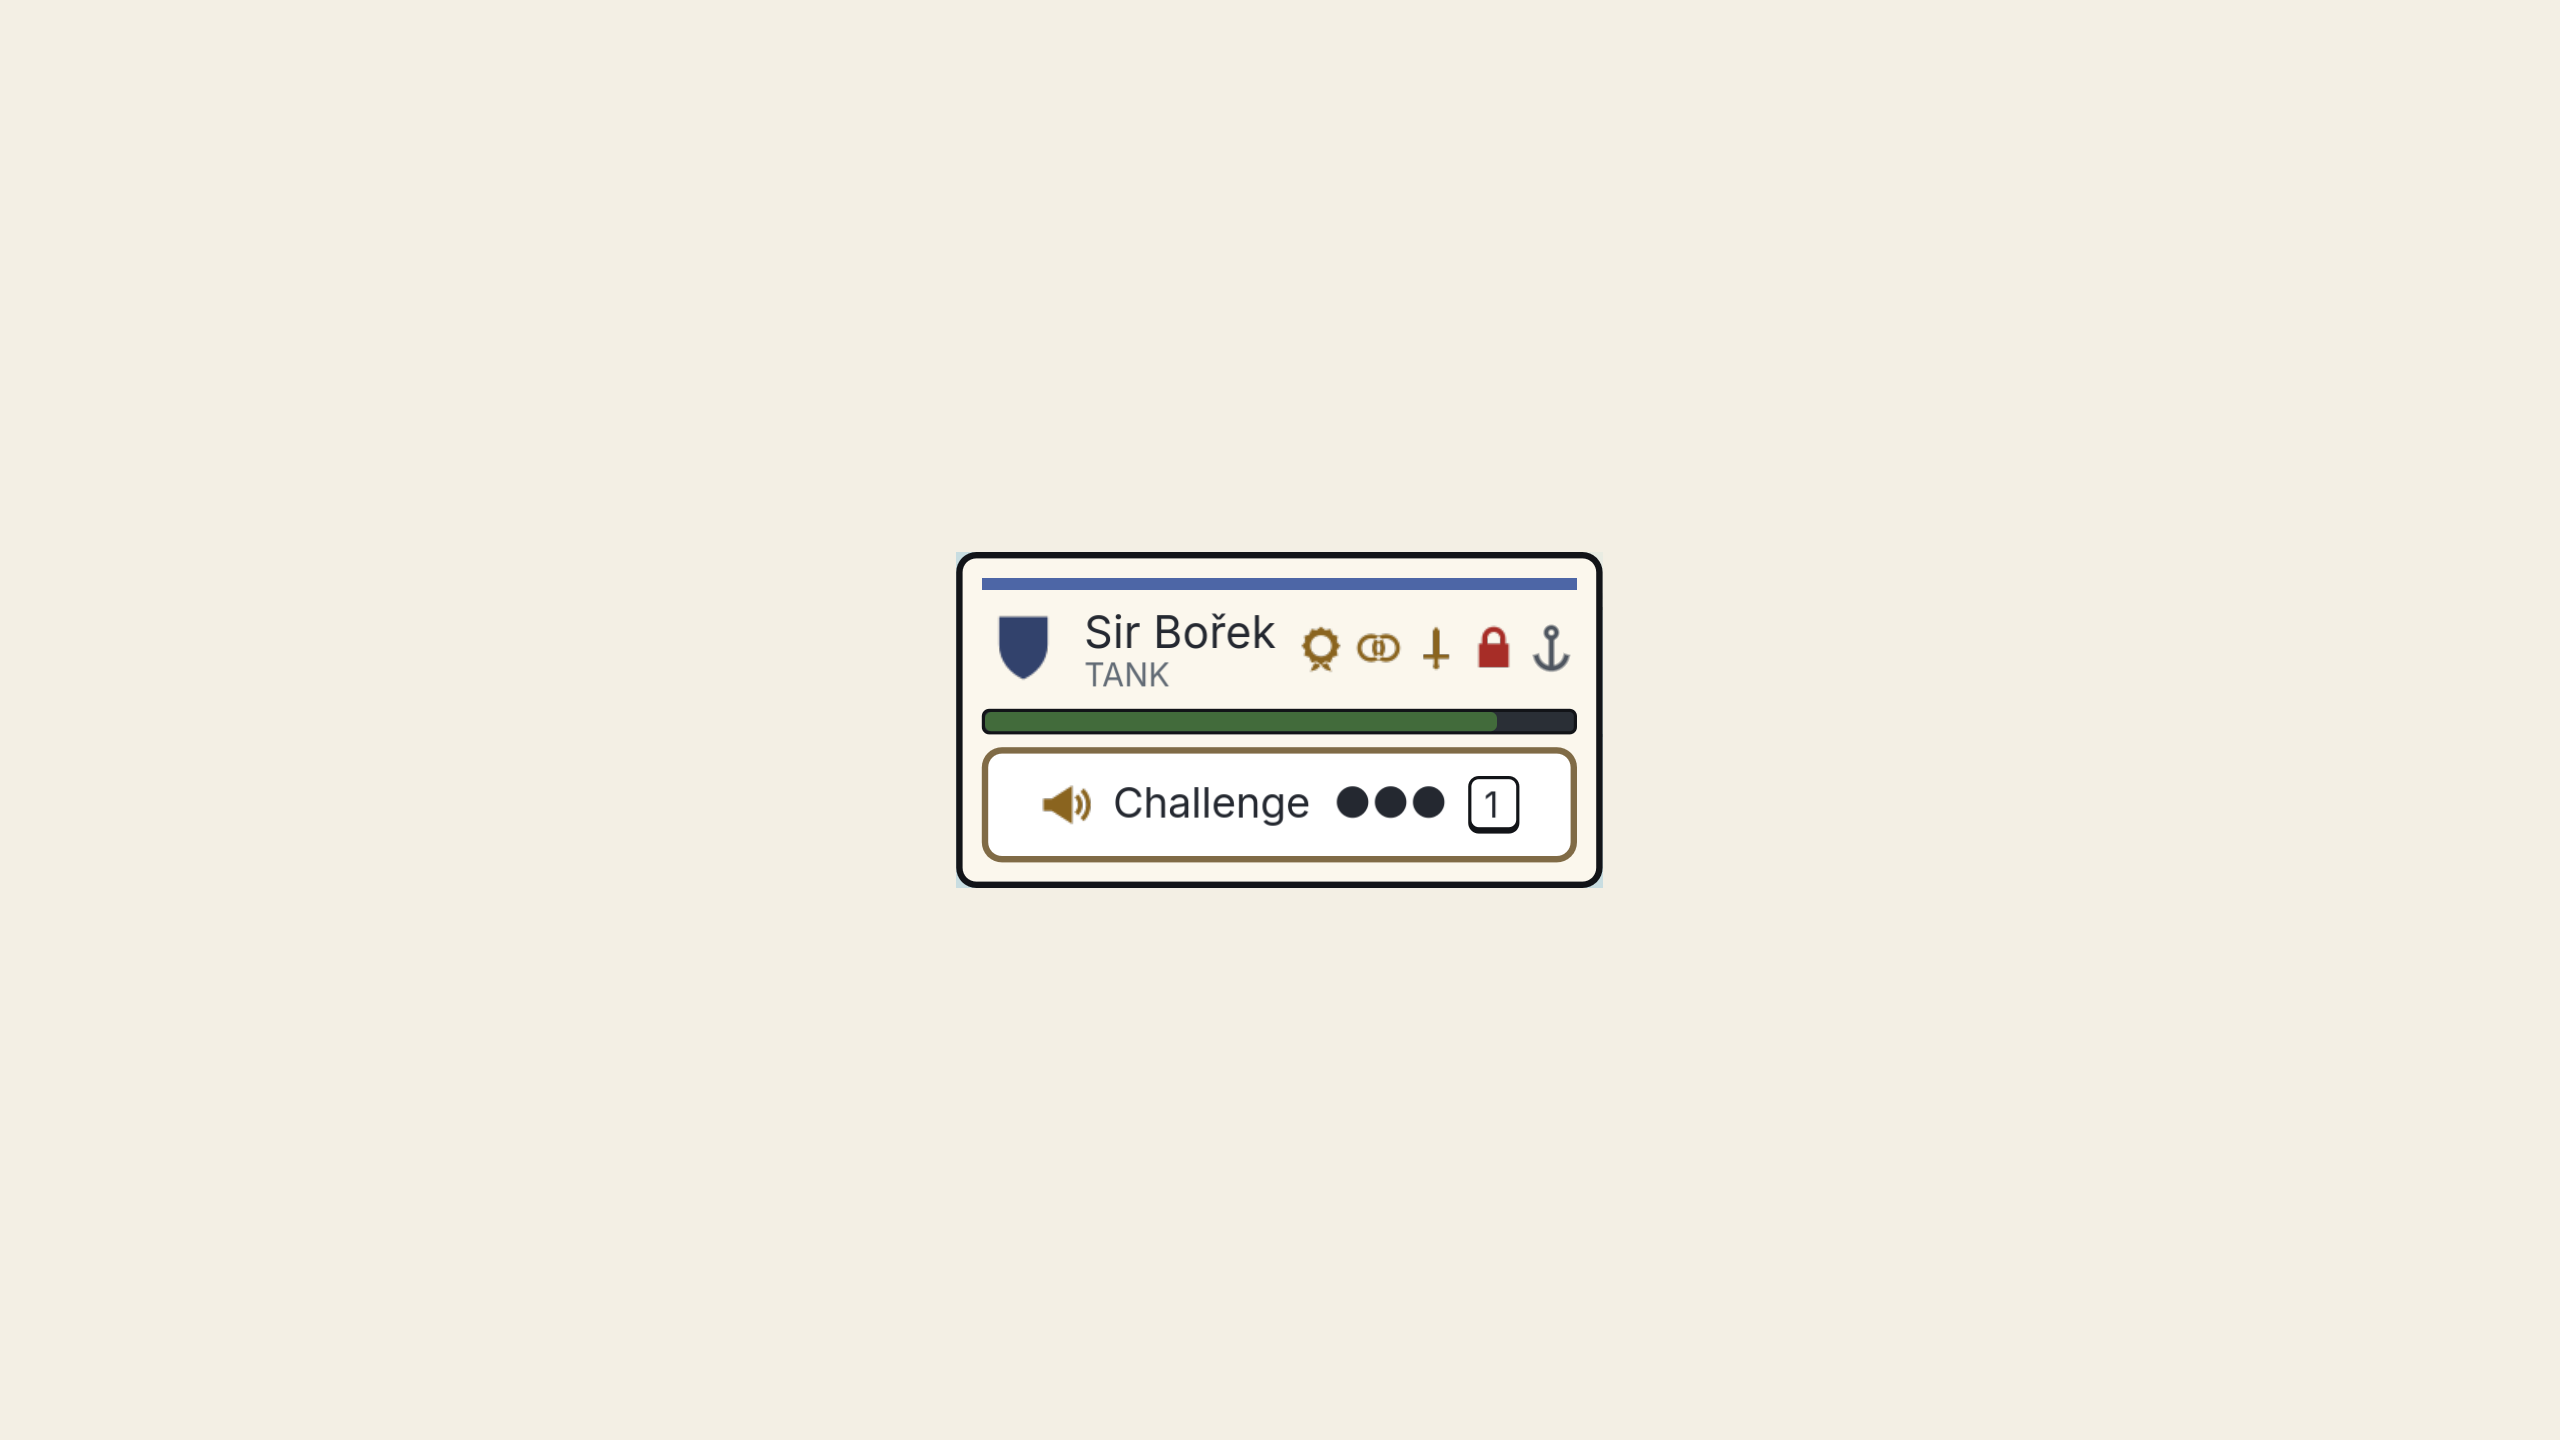
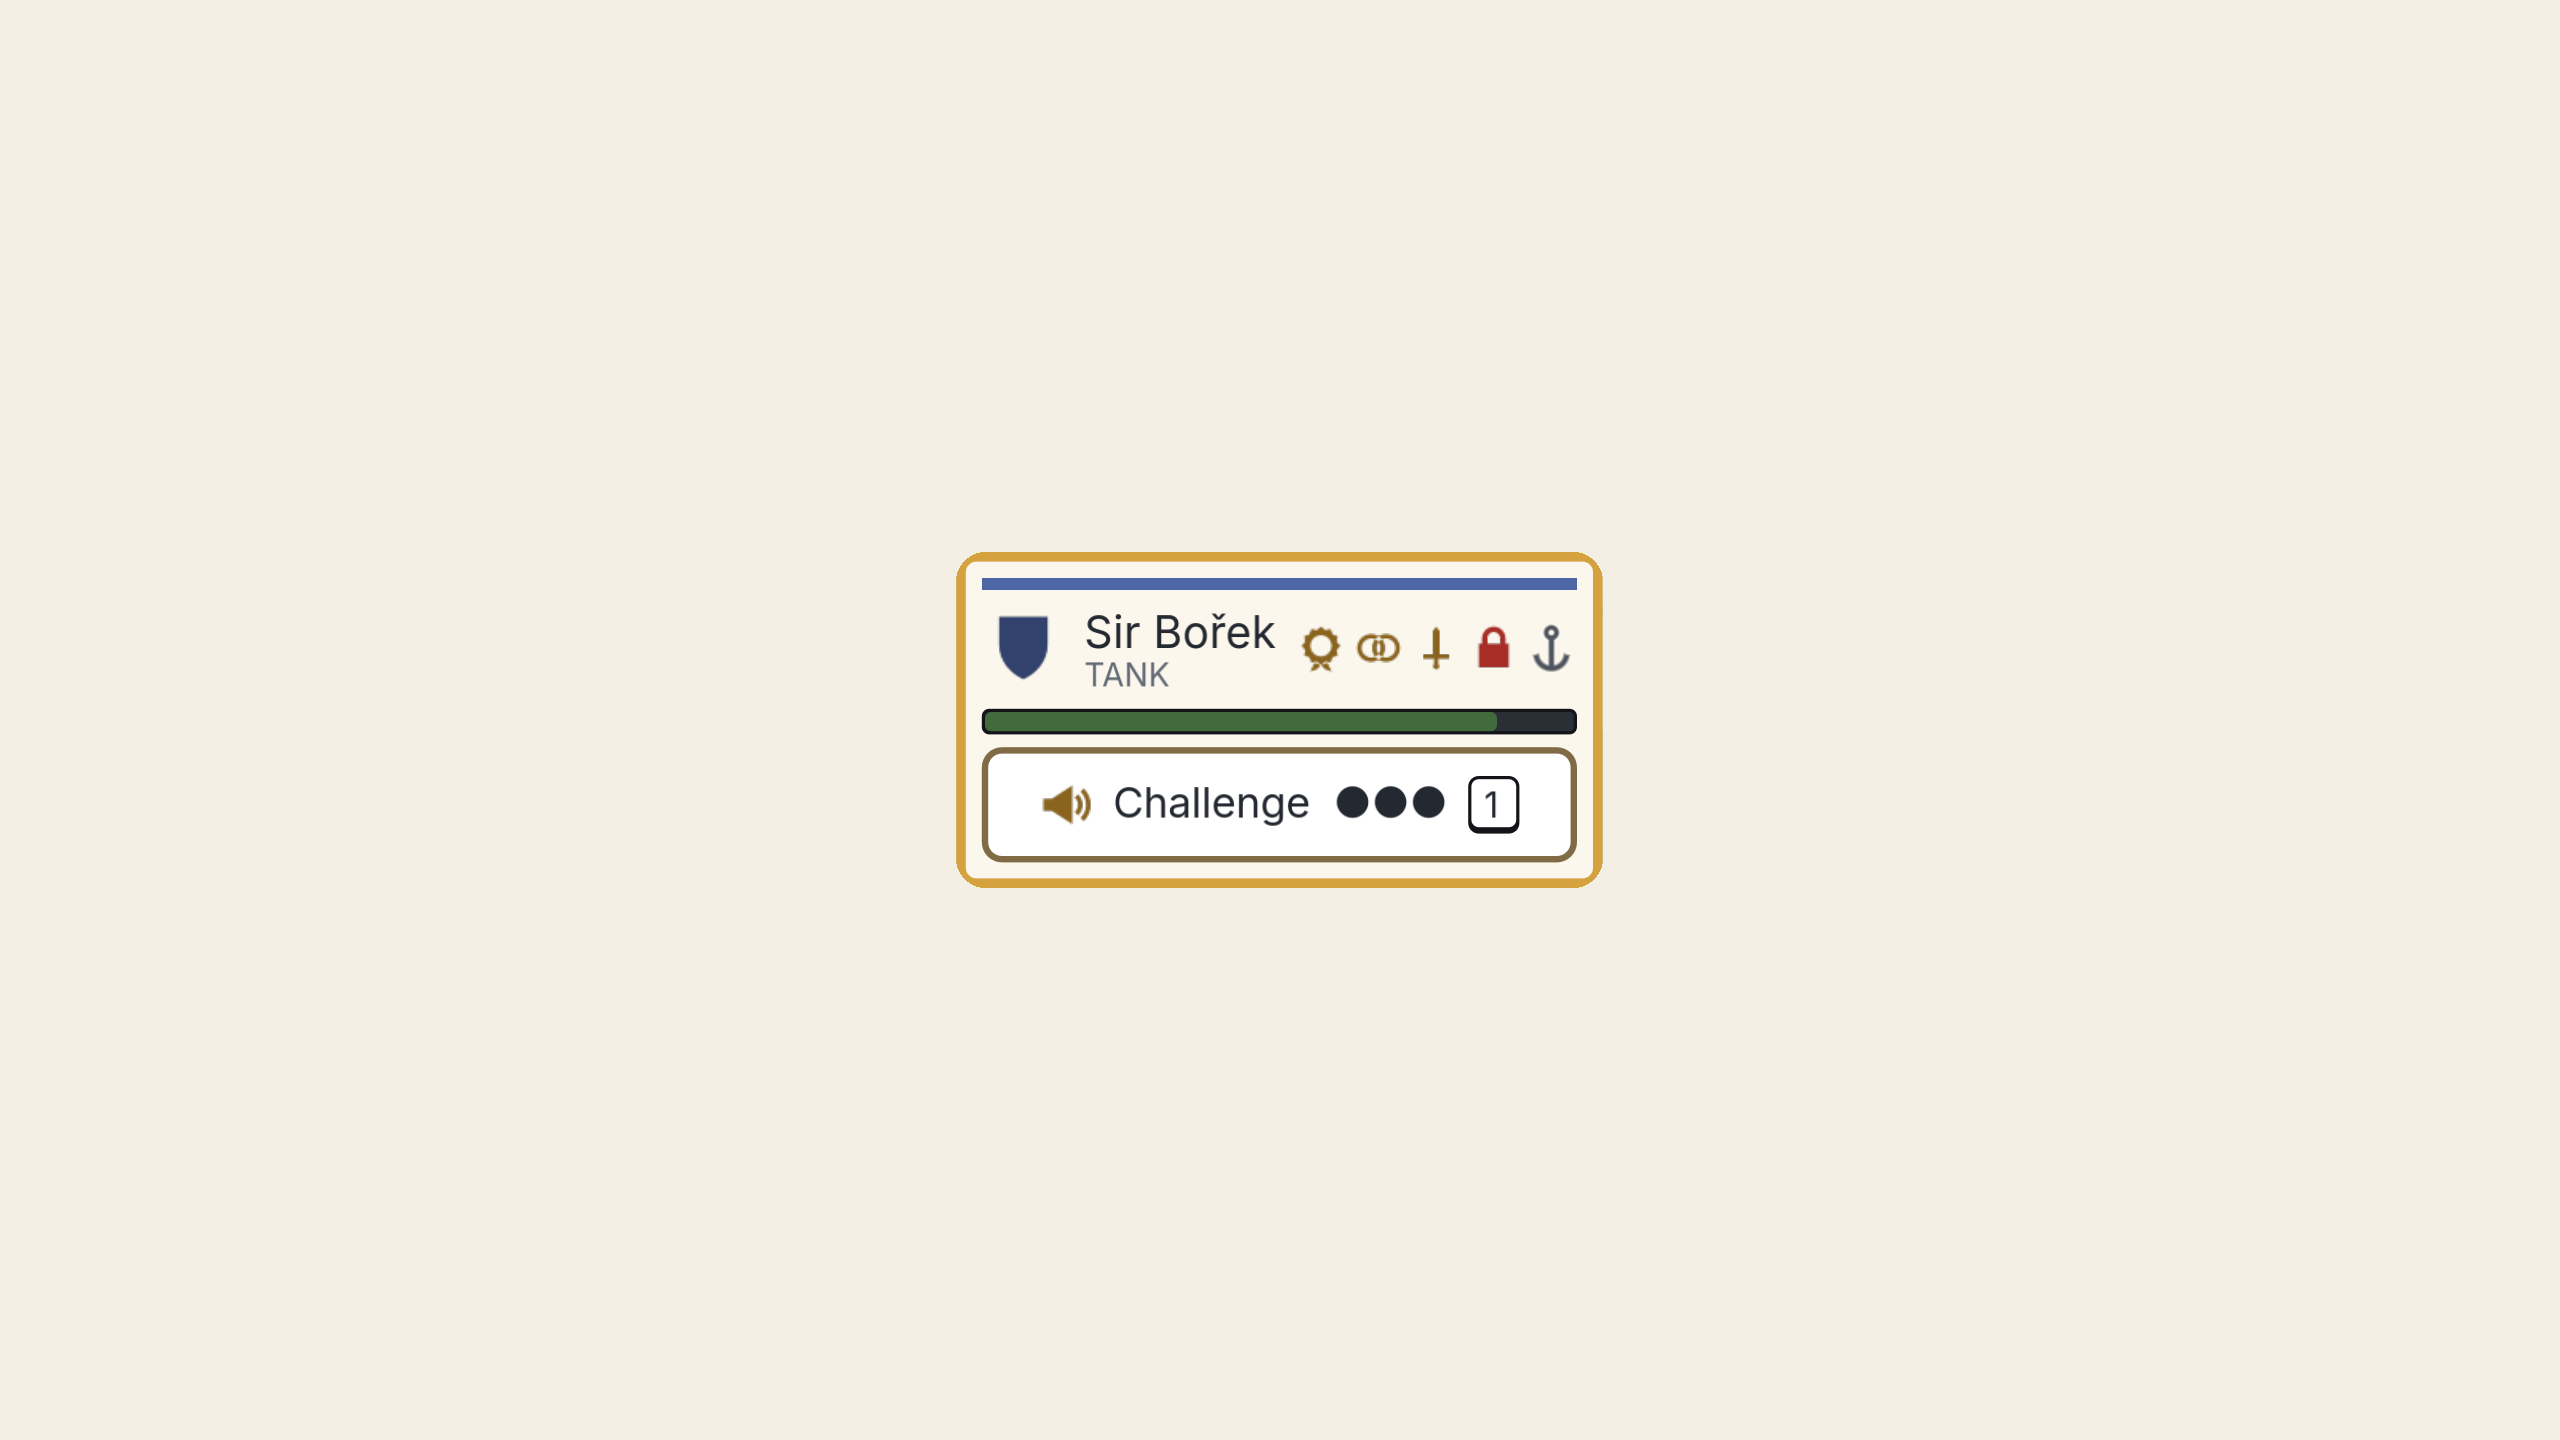
K2-10a z Figmy a K2-10b s vybraným tankem, navíc celé obrazovky
Claude-Session: https://claude.ai/code/session_01FjUS67q44yK4zon9ubbe9Y

Changed region(s): [[0.375, 0.5938, 0.625, 0.625], [0.375, 0.375, 0.625, 0.4062]]

diff --git a/README.md b/README.md
@@ -20,8 +20,9 @@ Všechny snímky jsou PNG 2560 × 1440 (16 : 9) bez debug výpisů a FPS. K2-01 
 | `K2-09.png` | pět hrdinů před bitvou z běžné bitevní kamery (pevný úhel, nejbližší zoom) | aktuální build |
 | `K2-09-maska.png` | stejný záběr jako maska: barva třídy, zbytek postavy šedě (stejné pravidlo jako test 40 %) | aktuální build |
 | `K2-09-split.png` | doporučená verze pro web: vlevo hra, vpravo maska, stejný výřez | z obou výše |
-| `K2-10a.png` | **chybí**: karta hrdiny z Figmy (viz níže) | Figma |
-| `K2-10b.png` | karta tanka ve hře uprostřed plátna 2560 × 1440, měřítko 3,2 px na bod UI | aktuální build |
+| `K2-10a.png` | karta tanka z Figmy (frame „Battle · A Normal“, vybraná) uprostřed plátna 2560 × 1440, 3,2 px na bod UI | Figma, export 3× |
+| `K2-10b.png` | stejná karta ve hře, vybraná, stejné plátno, měřítko i umístění | aktuální build |
+| `K2-10a-obrazovka.png`, `K2-10b-obrazovka.png` | navíc: celá obrazovka bitvy ve Figmě a ve hře, obě 2560 × 1440 ve stejném měřítku | Figma / aktuální build |
 | `K2-11a.png`, `K2-11a-detail.png` | lišta bez morálky (čas a pauza); detail = horní část obrazovky přiblížená | build 7.11. před vzhledem Royal Court (`e8f8882`) |
 | `K2-11b.png`, `K2-11b-detail.png` | lišta s morálkou nepřítele 63 / 70 % a hranicí zlomu; detail se stejným výřezem jako 11a | aktuální build |
 | `K2-12.png` | stránka rodu: komba pout, znamení a „The Fallen“ s pamětními deskami a nástupci | aktuální build |
@@ -42,10 +43,6 @@ Všechny snímky jsou PNG 2560 × 1440 (16 : 9) bez debug výpisů a FPS. K2-01 
 | `V2-01.mp4` | výběr odměny → bitva, pauza a rozkaz jezdci → All In! a vítězství bez padlých → zápis „Victory“ po bitvě; konec navazuje na začátek (stejná obrazovka a kurzor), mezi scénami prolínačky, bez černé | 1920 × 1080, 25 s, H.264, 4,1 MB, bez zvuku |
 | `V2-02.mp4` | spuštění Výzvy a Požehnání (k K2-06b), bez UI | 1920 × 1080, 4,6 s smyčka |
 | `V2-03.mp4` | rozkaz v pauze: výběr jezdce a poslání na střelce (k K2-07b) | 1920 × 1080, 4,6 s smyčka |
-
-## K2-10a (karta z Figmy)
-
-Z cloudu nejde Figma stáhnout jako soubor. Export: Figma soubor Roguelike, stránka „Oathline UI · Screens“, frame „Battle · A Normal“ → „Hero cards“ → první „Hero card“ (node `40:170`, https://www.figma.com/design/ac4cRXkaZhJ0qwnMuhiO6p/?node-id=40-170). Export PNG **3.2x**. Pak buď `python3 tools/portfolio/finish.py <raw> <out> karta.png`, nebo ručně: karta uprostřed plátna 2560 × 1440 v barvě `#F3EFE4`, bez změny měřítka. Tím sedí s K2-10b (obě 3,2 px na bod).
 
 ## Pro Clauda, který staví web portfolia
 
